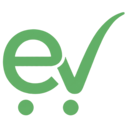
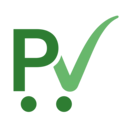
Fix: changed system name.

Changed region(s): [[0.0, 0.0938, 1.0, 0.9062]]

diff --git a/desktopfrontend/dist-electron/main.js b/desktopfrontend/dist-electron/main.js
@@ -1,39 +1,63 @@
-import { BrowserWindow as e, Menu as t, app as n } from "electron";
-import { fileURLToPath as r } from "url";
-import i from "path";
+import { BrowserWindow, Menu, app } from "electron";
+import { fileURLToPath } from "url";
+import path from "path";
 //#region src/electron/main.js
-var a = i.dirname(r(import.meta.url)), o = null, s = null;
-function c() {
-	o = new e({
+var __dirname = path.dirname(fileURLToPath(import.meta.url));
+var mainWindow = null;
+var pendingDeepLink = null;
+function createWindow() {
+	mainWindow = new BrowserWindow({
 		width: 1280,
 		height: 800,
 		minWidth: 800,
 		minHeight: 600,
 		webPreferences: {
-			nodeIntegration: !1,
-			contextIsolation: !0,
-			preload: i.join(a, "preload.cjs")
+			nodeIntegration: false,
+			contextIsolation: true,
+			preload: path.join(__dirname, "preload.cjs")
 		}
-	}), o.webContents.openDevTools(), o.webContents.on("did-finish-load", () => {
-		s &&= (o.webContents.send("deep-link-token", s), null);
-	}), process.env.VITE_DEV_SERVER_URL ? o.loadURL(process.env.VITE_DEV_SERVER_URL) : o.loadFile(i.join(a, "../dist/index.html"));
+	});
+	mainWindow.webContents.openDevTools();
+	mainWindow.webContents.on("did-finish-load", () => {
+		if (pendingDeepLink) {
+			mainWindow.webContents.send("deep-link-token", pendingDeepLink);
+			pendingDeepLink = null;
+		}
+	});
+	if (process.env.VITE_DEV_SERVER_URL) mainWindow.loadURL(process.env.VITE_DEV_SERVER_URL);
+	else mainWindow.loadFile(path.join(__dirname, "../dist/index.html"));
 }
-console.log("argv:", process.argv), console.log("execPath:", process.execPath), process.env.VITE_DEV_SERVER_URL ? n.setAsDefaultProtocolClient("everifymo", process.execPath, [i.resolve(process.argv[1])]) : n.setAsDefaultProtocolClient("everifymo"), n.requestSingleInstanceLock() ? (n.on("second-instance", (e, t) => {
-	let n = t.find((e) => e.startsWith("everifymo://"));
-	n && l(n);
-}), n.whenReady().then(() => {
-	t.setApplicationMenu(null), c();
-	let e = process.argv.find((e) => e.startsWith("everifymo://"));
-	e && l(e);
-})) : n.quit(), n.on("open-url", (e, t) => {
-	l(t);
+console.log("argv:", process.argv);
+console.log("execPath:", process.execPath);
+if (process.env.VITE_DEV_SERVER_URL) app.setAsDefaultProtocolClient("everifymo", process.execPath, [path.resolve(process.argv[1])]);
+else app.setAsDefaultProtocolClient("everifymo");
+if (!app.requestSingleInstanceLock()) app.quit();
+else {
+	app.on("second-instance", (event, argv) => {
+		const url = argv.find((arg) => arg.startsWith("everifymo://"));
+		if (url) handleDeepLink(url);
+	});
+	app.whenReady().then(() => {
+		Menu.setApplicationMenu(null);
+		createWindow();
+		const launchUrl = process.argv.find((arg) => arg.startsWith("everifymo://"));
+		if (launchUrl) handleDeepLink(launchUrl);
+	});
+}
+app.on("open-url", (event, url) => {
+	handleDeepLink(url);
 });
-function l(e) {
-	let t = new URL(e).searchParams.get("token");
-	o ? (o.isMinimized() && o.restore(), o.show(), o.focus(), o.webContents.send("deep-link-token", t)) : s = t;
+function handleDeepLink(url) {
+	const token = new URL(url).searchParams.get("token");
+	if (mainWindow) {
+		if (mainWindow.isMinimized()) mainWindow.restore();
+		mainWindow.show();
+		mainWindow.focus();
+		mainWindow.webContents.send("deep-link-token", token);
+	} else pendingDeepLink = token;
 }
-n.on("window-all-closed", () => {
-	process.platform !== "darwin" && n.quit();
+app.on("window-all-closed", () => {
+	if (process.platform !== "darwin") app.quit();
 });
 //#endregion
 export {};

diff --git a/extension/pages/about.html b/extension/pages/about.html
@@ -3,7 +3,7 @@
     <head>
         <meta charset="UTF-8" />
         <meta name="viewport" content="width=device-width, initial-scale=1.0" />
-        <title>E-VERIFY | About</title>
+        <title>ProduCheck | About</title>
         <link rel="stylesheet" href="../css/global.css" />
     </head>
     <body>
@@ -18,10 +18,10 @@
                     <div class="about-everify-details">
                         <div class="about-everify-row">
                             <div class="about-everify-text">
-                            <p class="about-everify-title">E-Verify</p>
+                            <p class="about-everify-title">ProduCheck</p>
                             <p class="about-everify-version">Version 1.0</p>
                             <p class="about-everify-description">
-                                E-Verify Extension is a real-time FDA cosmetic 
+                                ProduCheck Extension is a real-time FDA cosmetic 
                                 products verification for major e-marketplace platforms (Shopee, Lazada, 
                                 TikTok Shop, Facebook Marketplace) in the Philippines.
                             </p>
@@ -49,7 +49,7 @@
                             <div class="about-everify-guide-step2">
                                 <img src="../assets/images/search_icon.png" alt="Step 2 Icon" class="about-everify-guide-step-icon">
                                 <p class="step-title">Scan</p>
-                                <p class="step-description">E-Verify will then detect & check the cosmetic product from the FDA database</p>
+                                <p class="step-description">ProduCheck will then detect & check the cosmetic product from the FDA database</p>
                             </div>
 
                             <div class="about-everify-guide-step3">
@@ -102,9 +102,9 @@
                         <p class="about-everify-terms-title">Terms and Conditions</p>
                         <p class="about-everify-terms-subtitle">Last updated: July 2026</p>
                         <p class="about-everify-terms-description">
-                            By using the E-Verify Extension, you agree to the terms and conditions set forth by the developers. 
+                            By using the ProduCheck Extension, you agree to the terms and conditions set forth by the developers. 
                             The extension is provided "as is" without any warranties or guarantees, and the developers are not 
-                            responsible for any damages or losses arising from its use. E-Verify only processes publicly visible 
+                            responsible for any damages or losses arising from its use. ProduCheck only processes publicly visible 
                             product listing data (such as titles) for FDA verification purposes and does not collect personal 
                             browsing history. Users are encouraged to verify product authenticity through official FDA channels 
                             and may use the extension's built-in reporting feature to flag suspicious or unregistered products.

diff --git a/extension/scripts/content.js b/extension/scripts/content.js
@@ -3,15 +3,16 @@ console.log('FDA Checker content script loaded');
 console.log("Hello World from content.js")
 
 const verifyBtn = document.createElement("button");
-verifyBtn.textContent = "Verify";
+verifyBtn.textContent = "Check Product";
 verifyBtn.style.position = "fixed";
 verifyBtn.style.display = "none";
 verifyBtn.style.zIndex = "9999";
 verifyBtn.style.padding = "6px 12px";
-verifyBtn.style.backgroundColor = "black";
-verifyBtn.style.color = "white";
-verifyBtn.style.border = "none";
-verifyBtn.style.borderRadius = "5px";
+verifyBtn.style.backgroundColor = "#66BB6A";
+verifyBtn.style.color = "#256428";
+verifyBtn.style.border = "1px solid #256428";
+verifyBtn.style.fontWeight = "bold";
+verifyBtn.style.borderRadius = "15px";
 verifyBtn.style.cursor = "pointer";
 document.body.appendChild(verifyBtn);
 
@@ -86,8 +87,8 @@ function createModal() {
  
   modal.innerHTML = `
     <header class="mo-header">
-      <img src="${chrome.runtime.getURL('assets/images/extension_icon.png')}" alt="E-Verify Logo" class="mo-logo" />
-      <h1 class="mo-extension-name">E-Verify</h1>
+      <img src="${chrome.runtime.getURL('assets/images/extension_icon.png')}" alt="ProduCheck Logo" class="mo-logo" />
+      <h1 class="mo-extension-name">ProduCheck</h1>
       <button id="mo-close-x" class="mo-close-x" type="button" aria-label="Close">✕</button>
     </header>
     

diff --git a/extension/popup/popup.html b/extension/popup/popup.html
@@ -3,15 +3,15 @@
   <head>
     <meta charset="UTF-8" />
     <meta name="viewport" content="width=device-width, initial-scale=1.0" />
-    <title>E-VERIFY</title>
+    <title>ProduCheck</title>
     <link rel="stylesheet" href="popup.css" />
   </head>
   <body>
 
     <!-- HEADER -->
     <header class="header">
-      <img src="../assets/images/extension_icon.png" alt="E-VERIFY Logo" class="logo" />
-      <h1 class="extension-name">E-Verify</h1>
+      <img src="../assets/images/extension_icon.png" alt="ProduCheck Logo" class="logo" />
+      <h1 class="extension-name">ProduCheck</h1>
     </header>
 
     <!-- MAIN CONTENT -->
@@ -303,7 +303,7 @@
 
   <!-- Guest banner -->
   <div class="home-banner" id="home-banner-guest">
-    <div class="home-title">Welcome to E-Verify!</div>
+    <div class="home-title">Welcome to ProduCheck!</div>
     <div class="home-message">
       You can still verify products as a guest. Sign in or Sign up to file complaints, and to view your verification history, complaints, and report status.
     </div>
@@ -333,7 +333,7 @@
 
   <a class="btn" id="btn-about">
     <img src="../assets/images/about.png" alt="about_icon" class="small-icons" />
-    <span>About E-Verify</span>
+    <span>About ProduCheck</span>
   </a>
 
   <div class="home-toggle-row">

diff --git a/backend/app/extension/services/templates/otp_email.html b/backend/app/extension/services/templates/otp_email.html
@@ -20,11 +20,11 @@
                 <tr>
                   <td style="vertical-align:middle; padding-right:10px;">
                     <img src="cid:extension_logo"
-                         width="36" height="36" alt="E-Verify Logo"
+                         width="36" height="36" alt="ProduCheck Logo"
                          style="display:block; border-radius:50%;" />
                   </td>
                   <td style="vertical-align:middle; font-size:22px; font-weight:700; color:#030303; font-family: 'Segoe UI', Arial, sans-serif;">
-                    E-Verify
+                    ProduCheck
                   </td>
                 </tr>
               </table>
@@ -71,7 +71,7 @@
           <tr>
             <td style="padding:16px 32px; background-color:#F3F3F3; border-top:1px solid #E5E5E5;">
               <p style="margin:0; font-size:11px; color:#777777; text-align:center;">
-                E-Verify · Real-time FDA product verification
+                ProduCheck · Real-time FDA product verification
               </p>
             </td>
           </tr>

diff --git a/extension/js/auth.js b/extension/js/auth.js
@@ -101,13 +101,13 @@ document.addEventListener('DOMContentLoaded', () => {
       title: 'Signing in is optional',
       text: 'You can still verify products as a guest. Sign in or Sign up to file complaints, and to view your verification history, complaints, and report status.',
       buttonLabel: 'Sign In',
-      documentTitle: 'E-VERIFY | Sign In'
+      documentTitle: 'ProduCheck | Sign In'
     },
     signup: {
       title: 'Signing up is optional',
       text: 'You can still verify products as a guest. Sign in or Sign up to file complaints, and to view your verification history, complaints, and report status.',
       buttonLabel: 'Sign Up',
-      documentTitle: 'E-VERIFY | Sign Up'
+      documentTitle: 'ProduCheck | Sign Up'
     }
   };
 

diff --git a/extension/pages/auth.html b/extension/pages/auth.html
@@ -4,7 +4,7 @@
 <head>
   <meta charset="UTF-8" />
   <meta name="viewport" content="width=device-width, initial-scale=1.0" />
-  <title>E-VERIFY | Sign In</title>
+  <title>ProduCheck | Sign In</title>
   <link rel="stylesheet" href="../css/global.css" />
 </head>
 <body>
@@ -13,12 +13,12 @@
       <div class="header-left">
         <img
           src="../assets/images/extension_icon.png"
-          alt="E-VERIFY Logo"
+          alt="ProduCheck Logo"
           class="logo-placeholder"
           width="36"
           height="36"
         />
-        <h1 class="header-title">E-Verify</h1>
+        <h1 class="header-title">ProduCheck</h1>
       </div>
     </div>
 

diff --git a/extension/partials/header.html b/extension/partials/header.html
@@ -1,7 +1,7 @@
 <div class="header-row">
   <div class="header-left">
-    <img src="../assets/images/extension_icon.png" alt="E-VERIFY Logo" class="logo-placeholder" width="36" height="36">
-    <h1 class="header-title">E-Verify</h1>
+    <img src="../assets/images/extension_icon.png" alt="ProduCheck Logo" class="logo-placeholder" width="36" height="36">
+    <h1 class="header-title">ProduCheck</h1>
   </div>
 
   <div class="header-right-buttons">

diff --git a/extension/utils/api.js b/extension/utils/api.js
@@ -1,4 +1,4 @@
-const API_BASE = 'https://everify.store'; // will be changed to real url during development (same with in the manifest)
+const API_BASE = 'https://everify.store'; // https://everify.store  http://localhost:8001 will be changed to real url during development (same with in the manifest)
 
 export class UnauthorizedError extends Error {
   constructor(message) {

diff --git a/extension/pages/complaint-status.html b/extension/pages/complaint-status.html
@@ -4,7 +4,7 @@
 <head>
     <meta charset="UTF-8">
     <meta name="viewport" content="width=device-width, initial-scale=1.0">
-    <title>E-VERIFY | History</title>
+    <title>ProduCheck | History</title>
     <link rel="stylesheet" href="../css/global.css">
 </head>
 <body>

diff --git a/extension/pages/history.html b/extension/pages/history.html
@@ -4,7 +4,7 @@
 <head>
     <meta charset="UTF-8">
     <meta name="viewport" content="width=device-width, initial-scale=1.0">
-    <title>E-VERIFY | History</title>
+    <title>ProduCheck | History</title>
     <link rel="stylesheet" href="../css/global.css">
 </head>
 <body>

diff --git a/README.md b/README.md
@@ -1,5 +1,5 @@
-**# E-VerifyMo**
-E-VerifyMo is composed of two interconnected systems (browser extension and desktop application).
+**# ProduCheck**
+ProduCheck is composed of two interconnected systems (browser extension and desktop application).
 
 **System Architecture**
 
